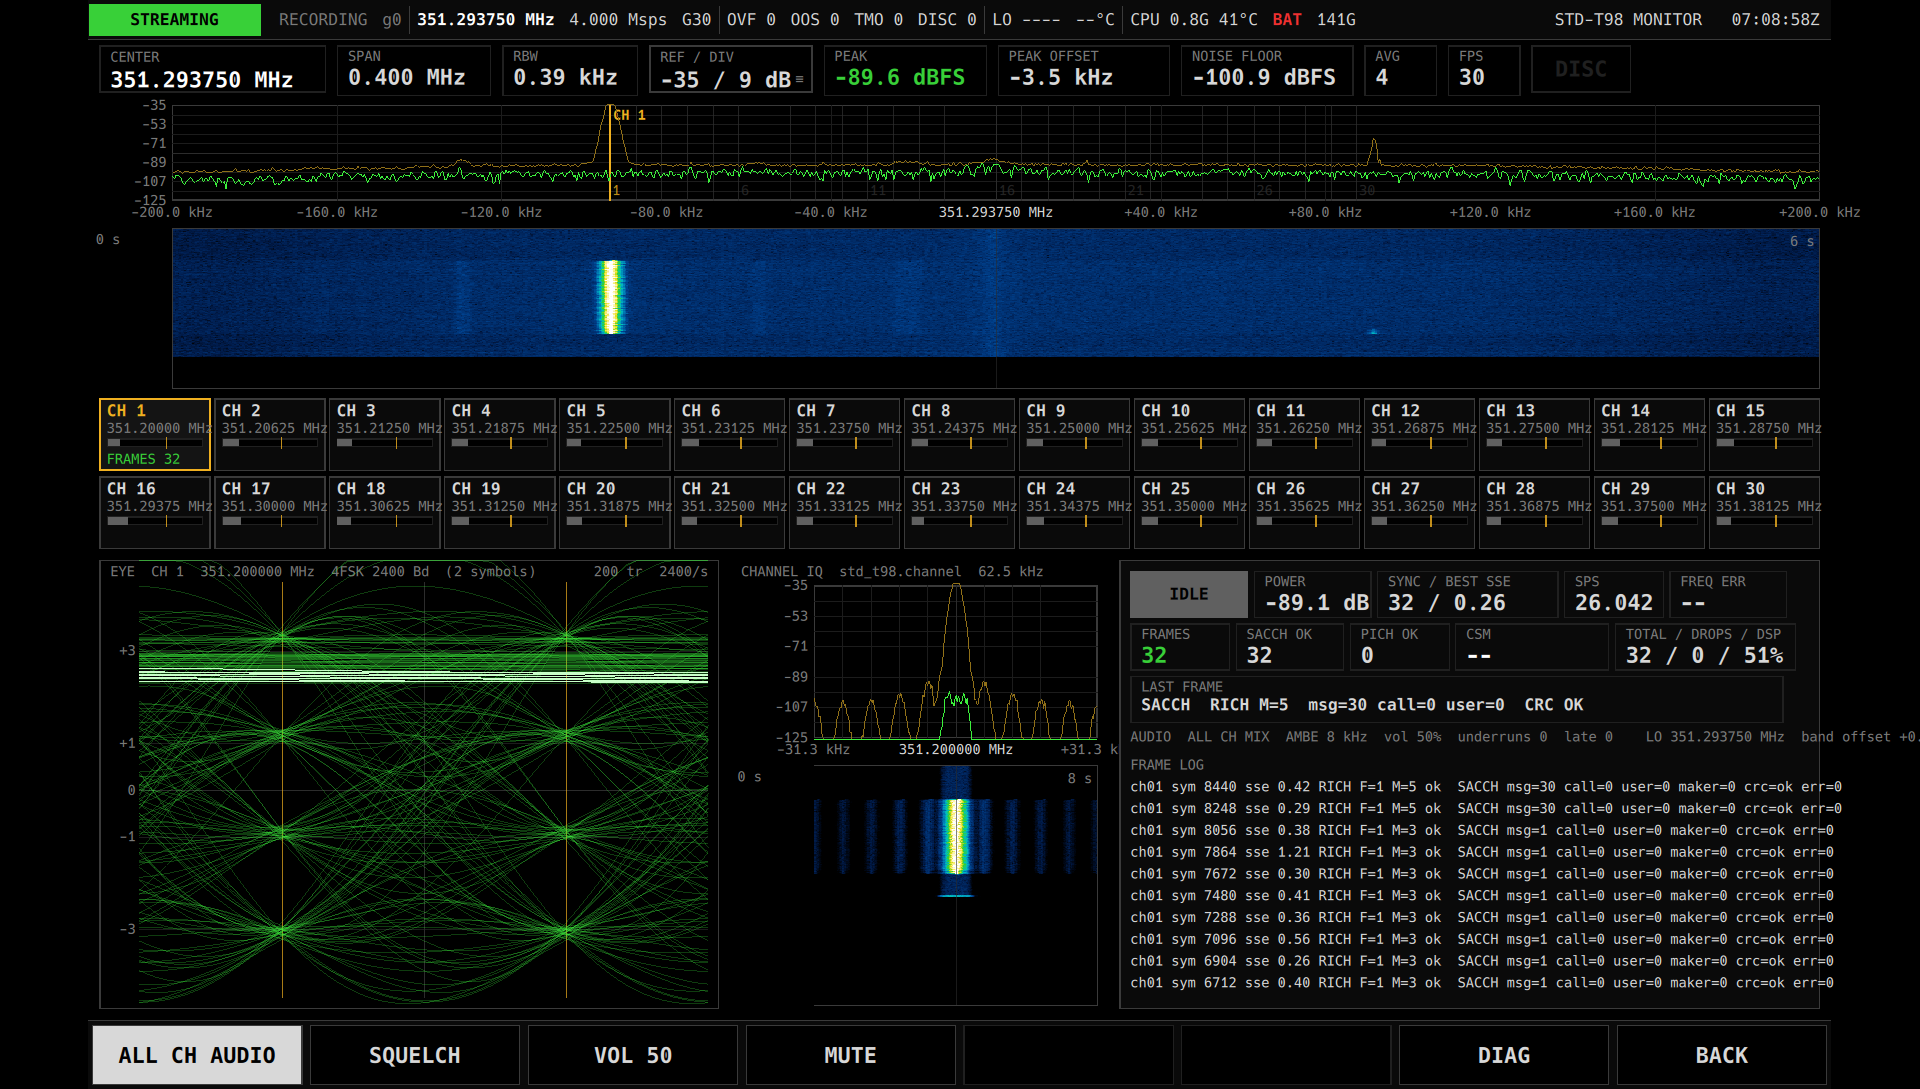
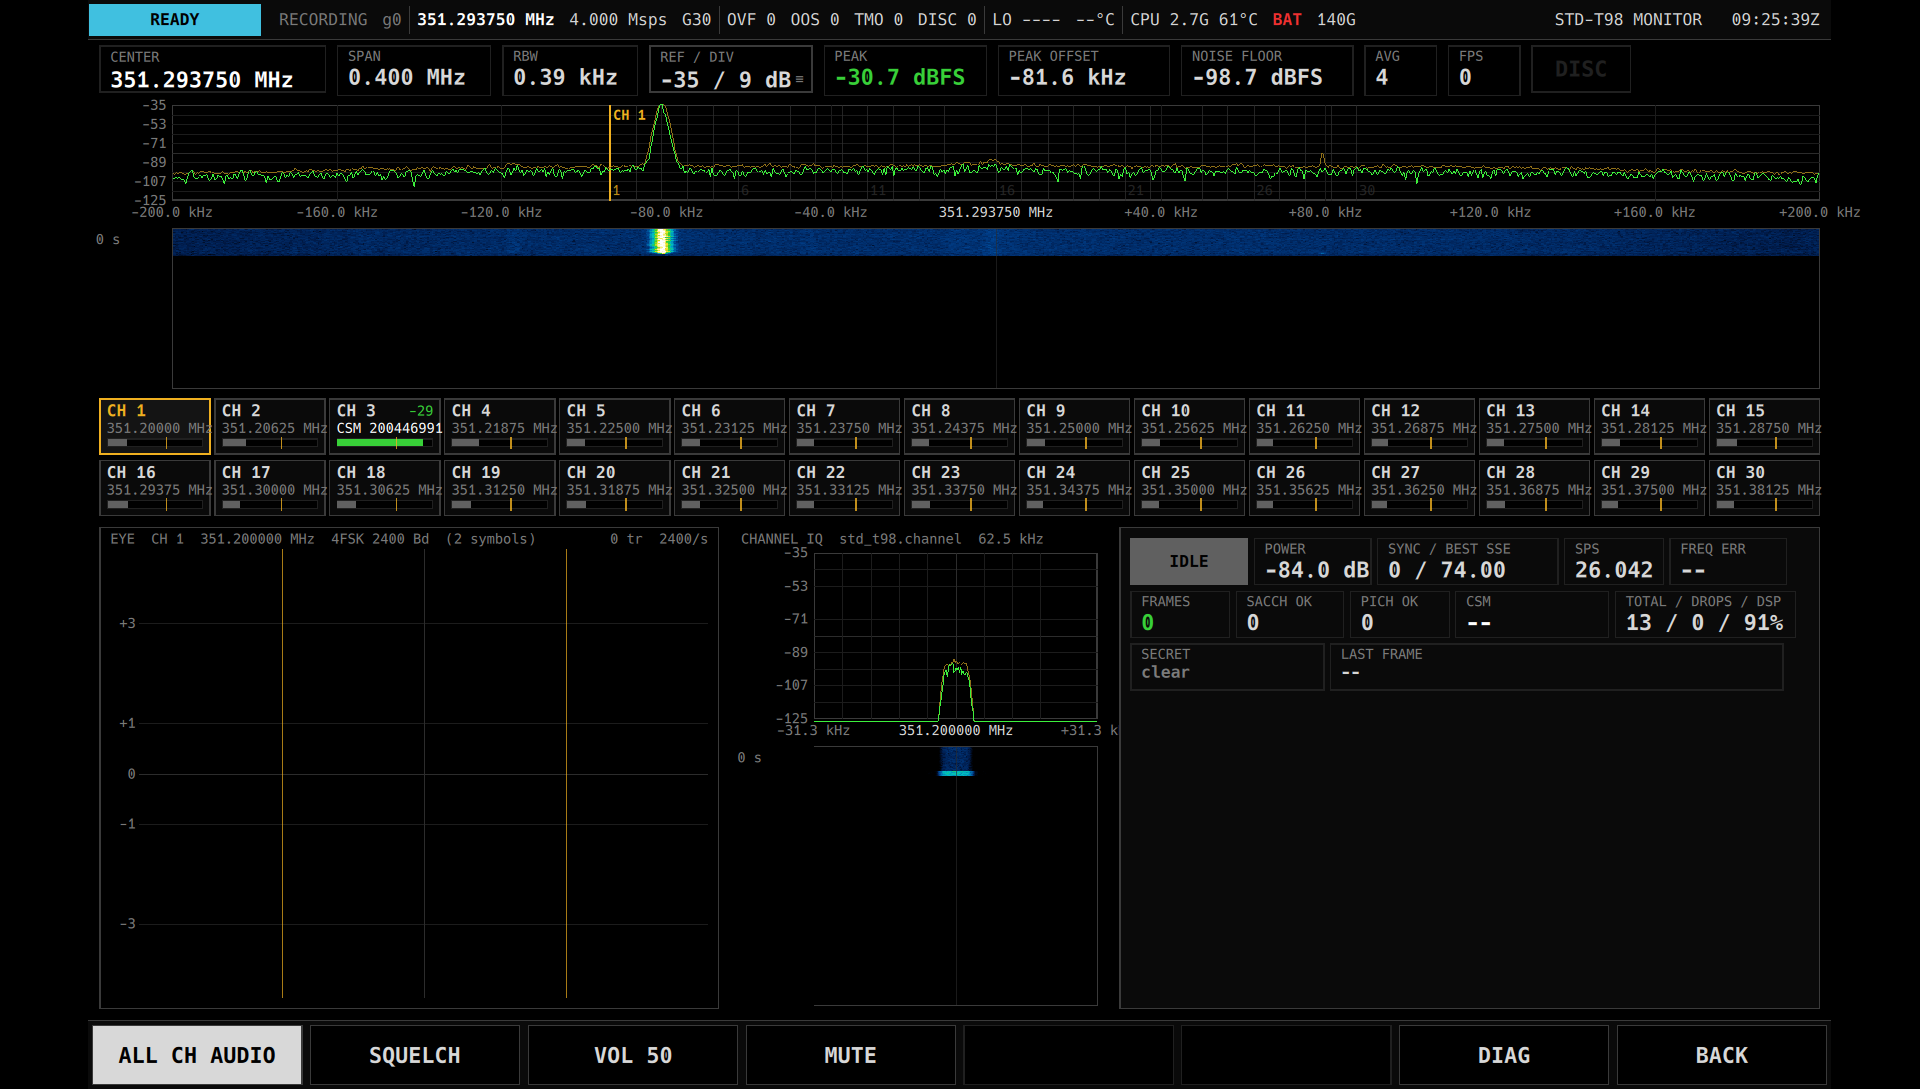
STD-T98: 画面から冗長な数字と文字列を減らす
- チャネル格子の FRAMES/SYNC 行と秘話の鍵表示を削除(セルを 80 → 62 px に)
- 右下の FRAME LOG を削除(App の frameLog プロパティとバッファも。1 行の記録は Event に残る)
- AUDIO / SECRET の状態文字列行を削除。音声はエラー時だけ赤 1 行
- docs/gui/std_t98.png を新レイアウト(録音再生)で差し替え

diff --git a/apps/std_t98/StdT98Page.qml b/apps/std_t98/StdT98Page.qml
@@ -1,7 +1,7 @@
 // STD-T98 MONITOR のページ (1920×1200)
 //   上 : 30ch 俯瞰スペクトラム(std_t98.band 400 kHz、チャネルマーカー付き)
-//   中 : チャネル格子(30 ch: 電力・同期・フレーム・CSM、タップで選択)
-//   下 : 選択チャネル — アイパターン / チャネル IQ スペクトラム / フレーム読み出し(秘話の鍵を含む)/ フレームログ
+//   中 : チャネル格子(30 ch: 電力・CSM、タップで選択。数字は増やさない)
+//   下 : 選択チャネル — アイパターン / チャネル IQ スペクトラム / 読み出し(フレーム統計・秘話の鍵)
 import QtQuick
 import Spear.Theme
 import Spear.Widgets
@@ -61,7 +61,7 @@ Item {
         id: grid
         anchors.top: band.bottom; anchors.left: parent.left; anchors.right: parent.right
         anchors.leftMargin: Theme.pad; anchors.rightMargin: Theme.pad
-        height: 2 * 86 + 6
+        height: 2 * 68 + 6
         readonly property int cols: 15
         readonly property real cw: (width - (cols - 1) * 4) / cols
         Repeater {
@@ -70,8 +70,8 @@ Item {
                 required property var modelData
                 required property int index
                 readonly property bool selectedCh: index === app.selectedChannel
-                x: (index % grid.cols) * (grid.cw + 4); y: Math.floor(index / grid.cols) * 86 + 6
-                width: grid.cw; height: 80
+                x: (index % grid.cols) * (grid.cw + 4); y: Math.floor(index / grid.cols) * 68 + 6
+                width: grid.cw; height: 62
                 color: selectedCh ? "#141414" : Theme.panel
                 border.color: selectedCh ? Theme.amber : Theme.line; border.width: selectedCh ? 2 : 1
                 Text { x: 8; y: 3; text: "CH " + modelData.ch; color: selectedCh ? Theme.amber : Theme.text; font.family: Theme.mono; font.pixelSize: Theme.fsBase; font.bold: true }
@@ -84,13 +84,6 @@ Item {
                     Rectangle { x: 1; y: 1; height: 8; width: Math.round((parent.width - 2) * Math.max(0, Math.min(1, (modelData.power + 100) / 80))); color: page.chColor(modelData) }
                     Rectangle { x: Math.round((parent.width - 2) * Math.max(0, Math.min(1, (app.squelchDb + 100) / 80))); y: -2; width: 2; height: 14; color: Theme.amber; opacity: 0.8 }
                 }
-                Text { x: 8; y: 58; text: modelData.frames > 0 ? ("FRAMES " + modelData.frames) : (modelData.syncs > 0 ? "SYNC " + modelData.syncs : "")
-                       color: modelData.frames > 0 ? Theme.green : Theme.textDim; font.family: Theme.mono; font.pixelSize: Theme.fsSmall }
-                // 秘話: 呼が秘話なら右下に鍵(探索中は SEC、鍵なしで探索が外れたら SEC?)
-                Text { anchors.right: parent.right; anchors.rightMargin: 8; y: 58; visible: modelData.secret
-                       text: modelData.key > 0 ? "K " + modelData.key : (modelData.secretStatus === "miss" ? "SEC ?" : "SEC")
-                       color: modelData.key > 0 ? Theme.green : (modelData.secretStatus === "miss" ? Theme.red : Theme.amber)
-                       font.family: Theme.mono; font.pixelSize: Theme.fsSmall; font.bold: true }
                 MouseArea { anchors.fill: parent; onClicked: app.selectedChannel = index }
             }
         }
@@ -167,19 +160,7 @@ Item {
                               valueSize: Theme.fsBase
                               valueColor: page.sel.lastFrame.crcOk === false ? Theme.red : Theme.text }
                 }
-                Text { text: "AUDIO  " + (app.audioError.length ? "ERROR " + app.audioError : (app.mute ? "MUTE" : (app.allChannelAudio ? "ALL CH MIX" : "CH " + (app.selectedChannel + 1) + " ONLY") + "  AMBE 8 kHz  vol " + (app.volume * 100).toFixed(0) + "%  underruns " + app.audioUnderruns.toFixed(0) + "  late " + app.audioLateFrames.toFixed(0)))
-                       + "    LO " + Theme.fmtFreq(sys.centerFreq) + "  band offset " + Theme.fmtHz(app.bandCenterHz - sys.centerFreq) + "  unit err " + app.freqErrHz.toFixed(0) + " Hz"
-                       color: app.audioError.length ? Theme.red : Theme.textDim; font.family: Theme.mono; font.pixelSize: Theme.fsSmall }
-                Text { text: "SECRET  " + app.secretStatus
-                             + (page.sel.secretSearches > 0 ? "    ch " + page.sel.ch + ": " + page.sel.secretSource + " " + page.sel.secretSeconds.toFixed(2) + " s" : "")
-                             + (app.secretCache.length ? "    cache " + app.secretCache.slice(0, 6).join(" ") : "")
-                       color: app.secretStatus.indexOf("ERROR") === 0 ? Theme.red : Theme.textDim; font.family: Theme.mono; font.pixelSize: Theme.fsSmall }
-                Rectangle { width: 10; height: 1; color: "transparent" }
-                Text { text: "FRAME LOG"; color: Theme.textDim; font.family: Theme.mono; font.pixelSize: Theme.fsSmall }
-                Repeater {
-                    model: app.frameLog
-                    delegate: Text { required property string modelData; text: modelData; color: Theme.text; font.family: Theme.mono; font.pixelSize: Theme.fsSmall }
-                }
+                Text { visible: app.audioError.length > 0; text: "AUDIO ERROR  " + app.audioError; color: Theme.red; font.family: Theme.mono; font.pixelSize: Theme.fsSmall }
             }
         }
     }

diff --git a/apps/std_t98/std_t98_app.hpp b/apps/std_t98/std_t98_app.hpp
@@ -20,7 +20,6 @@
 #include "spear/core/block.hpp"
 #include "spear/core/stream.hpp"
 
-#include <QStringList>
 #include <QVariantList>
 
 #include <atomic>
@@ -47,7 +46,6 @@ class StdT98App final : public appfw::GuiApp {
     // ---- 観測値(DSP thread が更新、timer で通知)----
     Q_PROPERTY(QVariantList channels READ channels NOTIFY metersChanged)   // 30 × {power, open, frames, sacchOk, pichOk, csm, syncs, bestSse}
     Q_PROPERTY(QVariantMap selected READ selected NOTIFY metersChanged)    // 選択 ch の詳細
-    Q_PROPERTY(QStringList frameLog READ frameLog NOTIFY metersChanged)    // 直近フレーム(新しい順)
     Q_PROPERTY(double totalFrames READ totalFrames NOTIFY metersChanged)
     Q_PROPERTY(double losslessDrops READ losslessDrops NOTIFY metersChanged)
     Q_PROPERTY(double dspLoad READ dspLoad NOTIFY metersChanged)           // DSP thread の実時間比
@@ -90,7 +88,6 @@ public:
 
     QVariantList channels() const;
     QVariantMap selected() const;
-    QStringList frameLog() const { std::lock_guard<std::mutex> lk(mu_); return frame_log_; }
     double totalFrames() const { return static_cast<double>(total_frames_.load()); }
     double losslessDrops() const { return sub_ ? static_cast<double>(sub_->stats().dropped_blocks) : 0; }
     double dspLoad() const { return dsp_load_; }
@@ -142,7 +139,6 @@ private:
     };
     std::vector<ChanStat> stats_;
     QVariantMap last_frame_;
-    QStringList frame_log_;
     std::atomic<uint64_t> total_frames_{0};
     std::atomic<double> dsp_load_{0};
 

diff --git a/apps/std_t98/std_t98_app.cpp b/apps/std_t98/std_t98_app.cpp
@@ -191,10 +191,8 @@ std::unique_ptr<Receiver> StdT98App::build_receiver(Core& core) {
         {
             std::lock_guard<std::mutex> lk(mu_);
             if (f.channel == selected_) last_frame_ = m;
-            frame_log_.prepend(line);
-            while (frame_log_.size() > 10) frame_log_.removeLast();
         }
-        // フレーム event(provenance: radio.rx の index、192 シンボル = 192 × in_rate / baud サンプル)
+        // フレーム event(provenance: radio.rx の index、192 シンボル = 192 × in_rate / baud サンプル)。1 行の記録は DIAGNOSTICS のイベントログで読む
         const uint64_t span = static_cast<uint64_t>(192.0 * cfg_.in_rate / cfg_.baud);
         core.events().emit(EventKind::Info, info().id, "frame " + line.toStdString(), {0, f.input_sample_index, f.input_sample_index + span}, static_cast<int64_t>(f.channel + 1));
         // 同期バースト = 呼の区切り: 秘話セッションを閉じる(鍵は保持)
@@ -329,7 +327,6 @@ void StdT98App::on_start(Core& core) {
     {
         std::lock_guard<std::mutex> lk(mu_);
         for (auto& s : stats_) s = ChanStat{};
-        frame_log_.clear();
         last_frame_.clear();
     }
     total_frames_ = 0;
